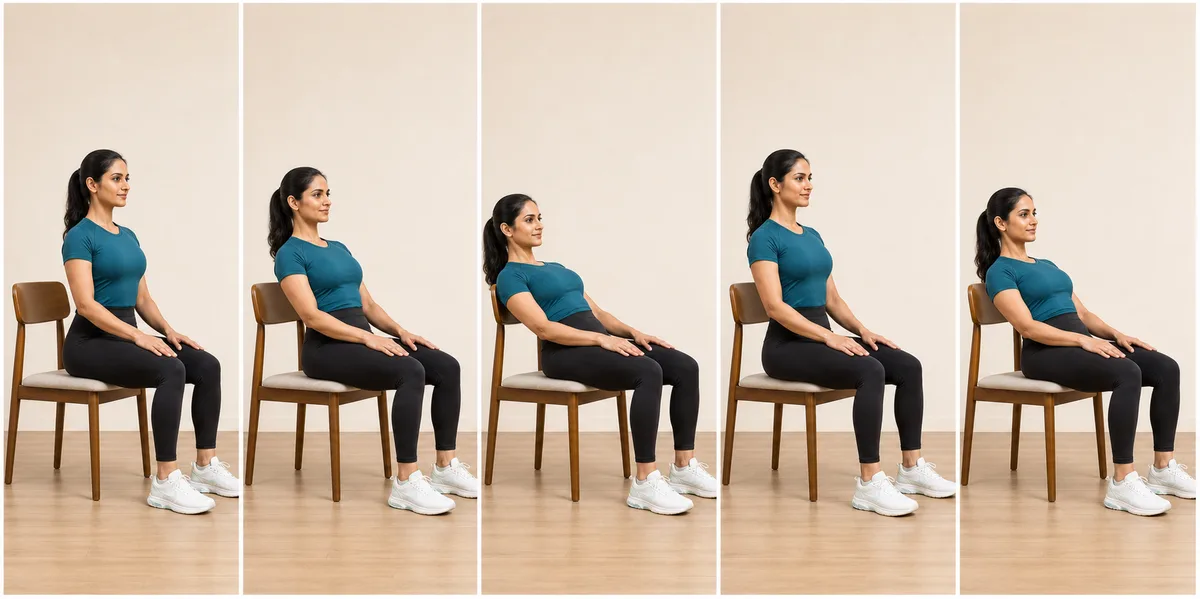
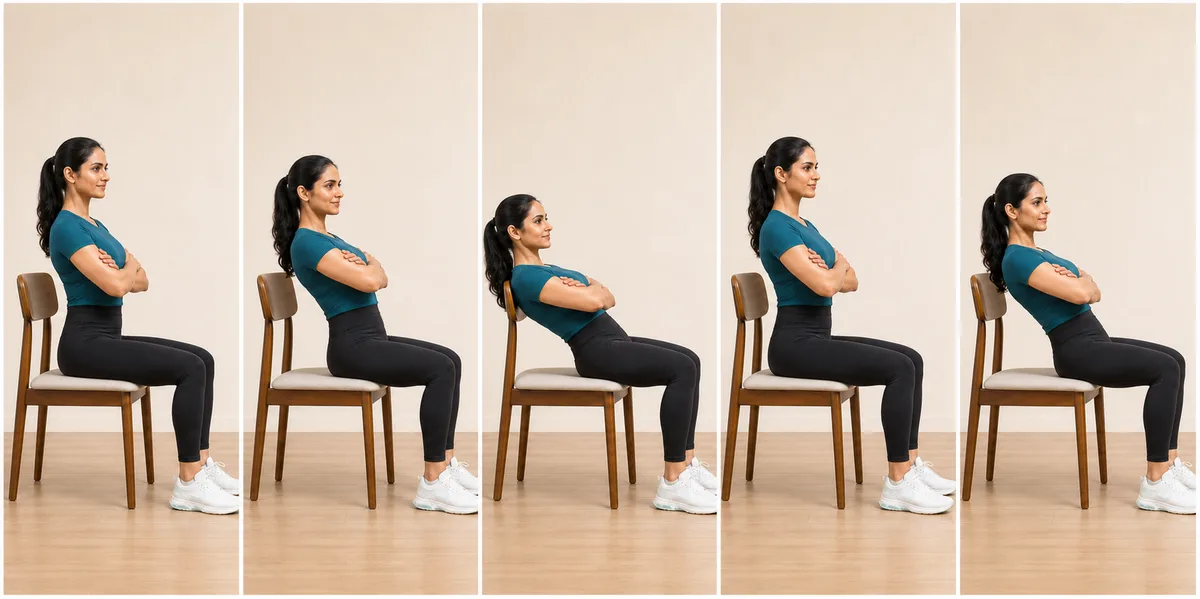
The five regenerated sequences, checked and shipped
All four held sequences and the sled pull came back reworked, and all
five now match the labels printed beneath them:

- single-leg calf raise: a full heel rise and a hold at the top, where
  before the heel barely left the floor in those two frames.
- assisted hamstring lower: ankles hooked under a sofa base in every
  frame, and the unused gym apparatus gone. This is what household_anchor
  now describes.
- seated hinge: distinct upright, partial and full torso angles, where
  before all five frames were the same upright pose.
- band pulldown: start to finish in order, with a real high-to-low pull,
  where before the order ran finish, start, mid, finish, start and the
  middle frame was a straight-arm front raise.
- sled pull: the rope stays connected to the sled throughout and the sled
  visibly travels between frames.

WITHHELD_MEDIA is empty and stays in the file. It is the mechanism, not a
list — a sequence whose frames contradict its captions belongs there with
the defect written down rather than in BY_ID, and the tests already know
how to read it.

55 of 55 wired, 2.40MB. 241 tests, both typechecks and next build clean.

Changed region(s): [[0.0, 0.2104, 1.0, 0.8715]]

diff --git a/mobile/src/exerciseMedia.ts b/mobile/src/exerciseMedia.ts
@@ -139,6 +139,10 @@ const BY_ID: Record<string, ExerciseMediaKey> = {
   "ex-sled-push": "sledPush",
   "ex-sled-pull": "sledPull",
   "ex-sandbag-lunge": "sandbagLunge",
+  "ex-single-leg-calf-raise": "singleLegCalfRaise",
+  "ex-nordic-hamstring-eased": "nordicHamstringEased",
+  "ex-seated-hinge": "seatedHinge",
+  "ex-band-lat-pulldown": "bandLatPulldown",
 };
 
 /** For coach-authored actions, which carry a name but no library id. */
@@ -194,36 +198,27 @@ const BY_NAME: Record<string, ExerciseMediaKey> = {
   "sled push": "sledPush",
   "sled pull": "sledPull",
   "sandbag lunge": "sandbagLunge",
+  "single-leg calf raise": "singleLegCalfRaise",
+  "assisted hamstring lower": "nordicHamstringEased",
+  "seated hinge": "seatedHinge",
+  "band pulldown": "bandLatPulldown",
 };
 
 
 /**
  * Movements whose photography exists but is not shown.
  *
- * This module's own rule is that showing the wrong movement is worse than
- * showing none, because a member follows the picture rather than the words.
- * These four sequences were delivered and their frames do not match the
- * labels printed beneath them, so they are held rather than shipped; the
- * screen falls back to the written frame labels, which are the real
- * instructions.
+ * Empty, and kept rather than deleted: this module's rule is that showing the
+ * wrong movement is worse than showing none, because a member follows the
+ * picture rather than the words. When a sequence is delivered whose frames do
+ * not match the labels printed beneath them, it belongs here with the defect
+ * written down, not in BY_ID.
  *
- * The asset files stay in the repository. Each of these needs two or three
- * frames reshot rather than a new sequence, and deleting them would lose the
- * fifteen usable frames alongside the bad ones.
- *
- * Reviewed frame-by-frame against the library's own labels on 2026-08-24.
- * Emptying this list is what ships them.
+ * Four sequences sat here on 2026-08-24 — a calf raise with no heel rise, a
+ * Nordic with unanchored ankles, a seated hinge with no hinge, and a pulldown
+ * whose frames ran out of order. All four were regenerated and now match.
  */
-export const WITHHELD_MEDIA: Record<string, string> = {
-  "ex-single-leg-calf-raise":
-    "Frames 3 and 4 are labelled 'Rise all the way up' and 'Pause at the top'; the heel barely leaves the floor in either. The full range is the entire exercise.",
-  "ex-nordic-hamstring-eased":
-    "Frame 1 reads 'Kneel, ankles held or hooked' and her ankles are free in all five frames — the anchor is visible behind her and unused. Without it this is a kneeling fall-forward, not a hamstring lower. The frames also show gym apparatus for a movement tagged equipment: ['none'].",
-  "ex-seated-hinge":
-    "Five near-identical upright frames. The hinge the movement is named for is not visible in any of them.",
-  "ex-band-lat-pulldown":
-    "Frame order does not progress — finish, start, mid, finish, start — and frame 3, labelled 'Pull down past your hips', shows the arms straight out in front at chest height, which is a different movement.",
-};
+export const WITHHELD_MEDIA: Record<string, string> = {};
 
 /**
  * The sequence for an exercise, or null.

diff --git a/docs/EXERCISE-MEDIA-BRIEF.md b/docs/EXERCISE-MEDIA-BRIEF.md
@@ -5,12 +5,10 @@ Regenerate rather than editing by hand — it will drift.
 
 ## Status: complete, 2026-08-24
 
-**All 55 movements now have photography.** 51 are wired into
-`mobile/src/exerciseMedia.ts`; **4 are held pending a reshoot** — see
-`WITHHELD_MEDIA` in that file for exactly what is wrong with each. Four tests
-hold this: every movement either resolves or is explicitly held, a held one
-carries a written reason, no mapping points at a movement that no longer
-exists, and every referenced asset file is present.
+**All 55 movements have photography and all 55 are wired.** Nothing is held.
+Four tests hold this: every movement either resolves or is explicitly held, a
+held one carries a written reason, no mapping points at a movement that no
+longer exists, and every referenced asset file is present.
 
 Delivered in two packs, both commissioned against this brief:
 
@@ -39,8 +37,17 @@ and are held in `WITHHELD_MEDIA` with the specific defect recorded. This is
 not a form review and does not replace one; it only checked that the picture
 shows what the words under it say.
 
-A fifth, `ex-sled-pull`, is shipped with a note: the rope-to-sled connection
-is hard to read in the last two frames. It is not wrong, only unclear.
+All four were regenerated the same day, along with `ex-sled-pull`, whose
+rope-to-sled connection had been hard to read. The replacements were checked
+the same way and all five now match their labels: the calf raise shows a full
+heel rise and hold, the Nordic has the ankles hooked under a sofa base with
+the unused gym apparatus removed, the seated hinge has distinct upright,
+partial and full angles, the pulldown runs start to finish in order, and the
+sled rope stays connected and the sled visibly travels.
+
+The Nordic regeneration also surfaced a library defect, correctly: the
+movement was tagged `equipment: ["none"]` while its own first frame reads
+"Kneel, ankles held or hooked". It now requires `household_anchor`.
 
 Everything below is the original brief, kept for reshoots and for any
 movement added later.

diff --git a/docs/BACKLOG.md b/docs/BACKLOG.md
@@ -131,9 +131,9 @@ says so rather than quietly producing a strength week.
   the other 34 were held to. Until that happens the event goals should be
   treated as internal.
 - ~~Photography for 47 movements~~ — **done 2026-08-24.** All 55 movements
-  have sequences; 51 are wired and 4 are held pending a reshoot. See
-  `WITHHELD_MEDIA` in `mobile/src/exerciseMedia.ts` for what is wrong with
-  each, and `EXERCISE-MEDIA-BRIEF.md` for the review note.
+  have sequences and all 55 are wired. Four were held the same day for frames
+  that did not match their labels, regenerated, re-checked and shipped. See
+  `EXERCISE-MEDIA-BRIEF.md`.
 - ~~Nine movements unreachable by any member~~ — **done 2026-08-24.** The
   library gained sleds, ergs and medicine balls; the equipment question did
   not, so every Group B event movement could never be selected by anybody.
@@ -141,10 +141,6 @@ says so rather than quietly producing a strength week.
   members training for an event, and `ex-nordic-hamstring-eased` no longer
   claims to need no equipment while its own first frame says "ankles held or
   hooked". Four tests hold it.
-- **Reshoot four sequences.** `ex-single-leg-calf-raise` (no heel rise),
-  `ex-nordic-hamstring-eased` (ankles never anchored), `ex-seated-hinge` (no
-  hinge), `ex-band-lat-pulldown` (frame order, and frame 3 is the wrong
-  movement). Two or three frames each rather than new sequences.
 
 ---
 
